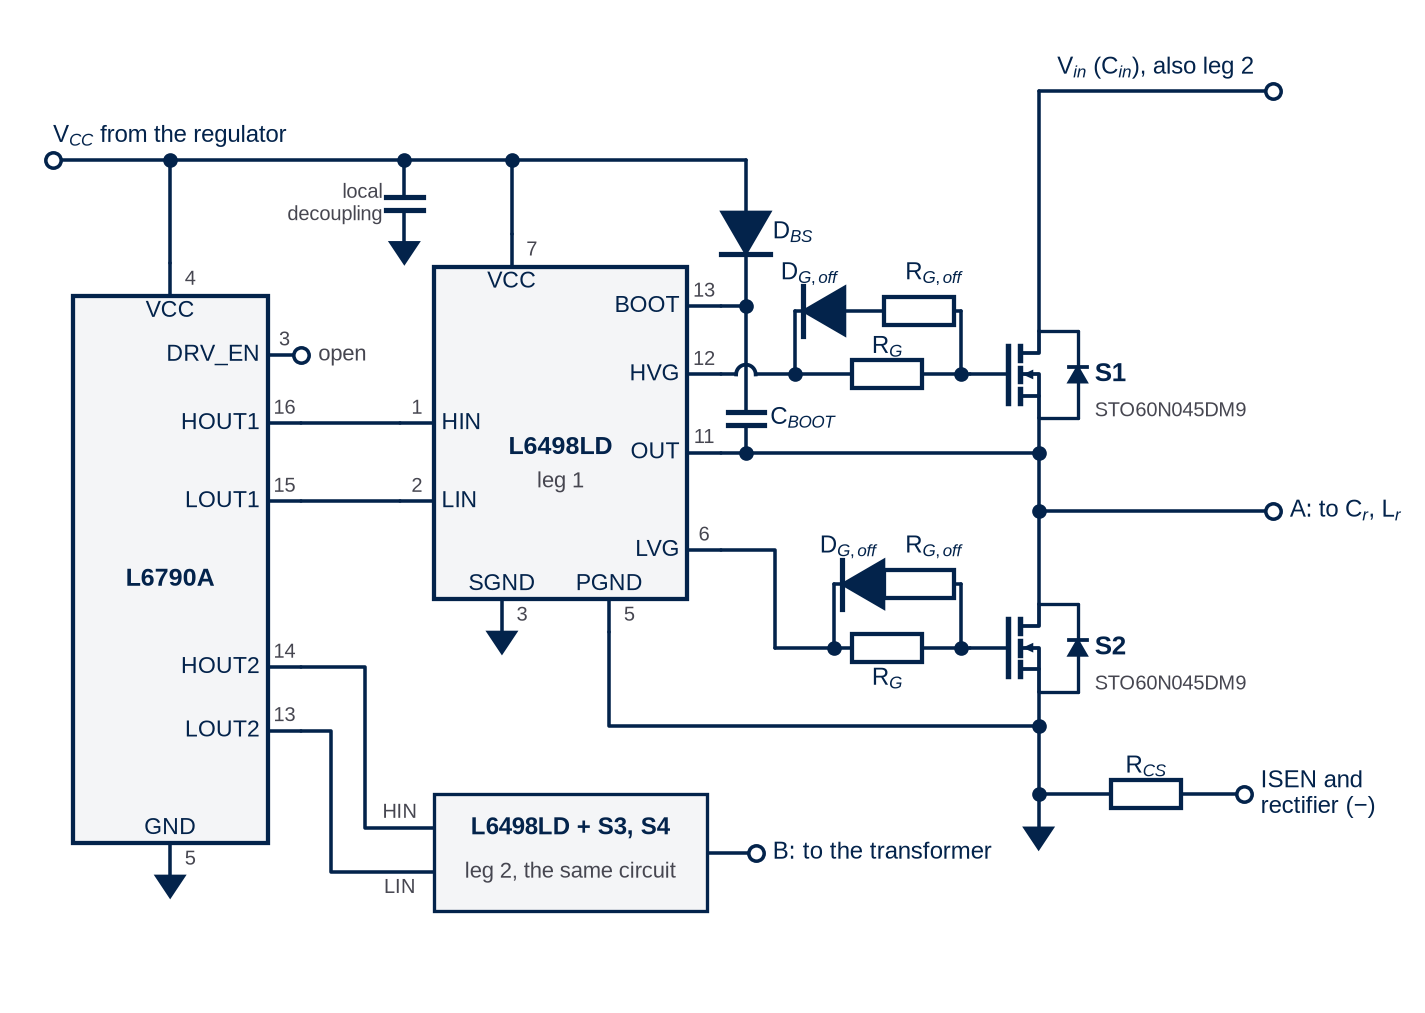
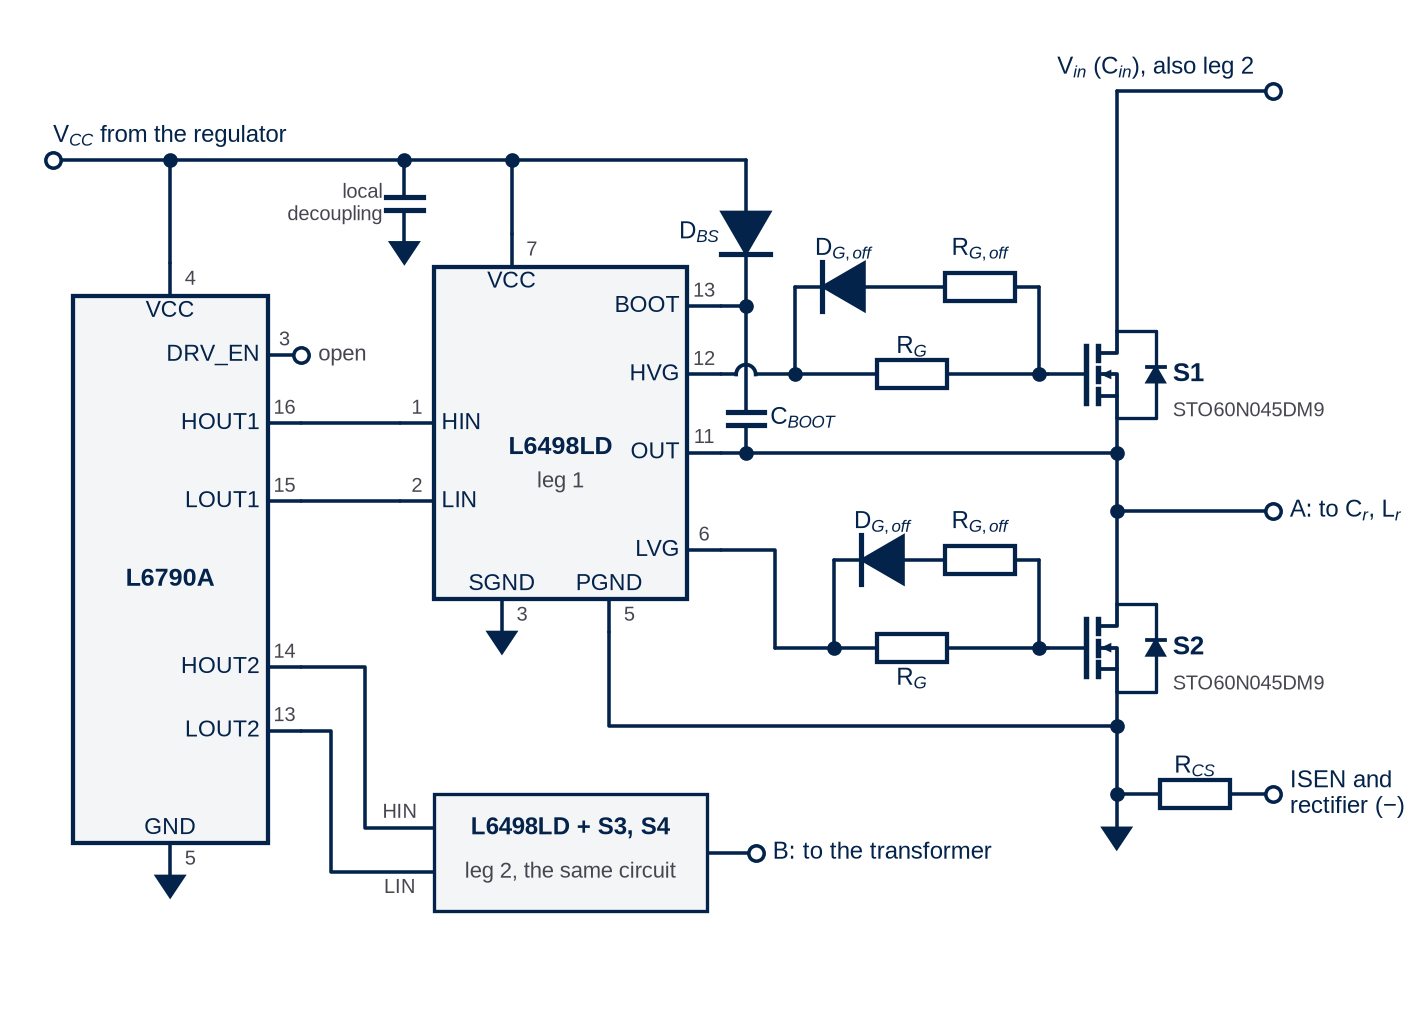
Round 84 (in progress): gate turn-off branches spread out — full schematic: branch 2.0 under each gate run, run 4.3 long, diode and resistor a wire apart, R_G,off value under its resistor, driver pins respaced (HVG 5.8, OUT 7.2, BOOT 8.6), U3 down 0.2, V_CC drop 27.8; gate-drive figure: MOSFET colum
Claude-Session: https://claude.ai/code/session_01L3H8Na8buSZY2uPpuuSkn7

diff --git a/Design Guide/generators/figs_ref.py b/Design Guide/generators/figs_ref.py
@@ -3536,7 +3536,7 @@ def an_gate_drive(save, foot):
     da, db = S.diode(ax, XB, 17.1, horiz=False, flip=True)   # VCC -> BOOT
     S.wire(ax, [(XB, YV), da])                     # anode on the rail
     S.wire(ax, [db, (XB, 15.6)])                   # cathode on BOOT
-    S.label(ax, XB + 0.55, 17.1, 'D$_{BS}$', size=10, ha='left')
+    S.label(ax, XB - 0.55, 17.1, 'D$_{BS}$', size=10, ha='right')
     ca, cb = S.cap(ax, XB, 13.3, horiz=False)
     S.wire(ax, [(XB, 15.6), cb])
     S.wire(ax, [ca, (XB, 12.6)])
@@ -3544,7 +3544,10 @@ def an_gate_drive(save, foot):
     S.label(ax, XB + 0.50, 13.3, 'C$_{BOOT}$', size=10, ha='left')
 
     # ------------------------------------------------- the two switches
-    XS = 20.4                               # drain-source line
+    XS = 22.0                               # drain-source line (1.6 to
+    #                                         the right of the first
+    #                                         drawing: room for the gate
+    #                                         networks, 2026-10-04)
     s1d, s1s = X.mosfet(ax, XS, 14.2, None, 'plain', h=1.8, gate=1.4,
                         body=True, coss=False)
     s2d, s2s = X.mosfet(ax, XS, 8.6, None, 'plain', h=1.8, gate=1.4,
@@ -3559,31 +3562,33 @@ def an_gate_drive(save, foot):
     xh = XS - 1.4
     S.wire(ax, [d['HVG'], (XB - R, 14.2)])
     X.hop(ax, XB, 14.2, r=R)
-    ra, rb = S.res(ax, 17.3, 14.2, 'R$_G$', tdy=0.55)
+    ra, rb = S.res(ax, 17.8, 14.2, 'R$_G$', tdy=0.55)
     S.wire(ax, [(XB + R, 14.2), ra])
     S.wire(ax, [rb, (xh, 14.2)])
     S.wire(ax, [d['LVG'], (15.0, 10.6), (15.0, 8.6)])
-    ra2, rb2 = S.res(ax, 17.3, 8.6, 'R$_G$', tdy=-0.65)
+    ra2, rb2 = S.res(ax, 17.8, 8.6, 'R$_G$', tdy=-0.65)
     S.wire(ax, [(15.0, 8.6), ra2])
     S.wire(ax, [rb2, (xh, 8.6)])
 
     def goff(yy, up, xn1):
         """the turn-off path anti-parallel to R_G: D_Goff pointing at the
-        driver, R_G,off in series - above each run (below the LVG run the
-        PGND return passes)"""
+        driver, R_G,off in series - above each run (below the HVG run the
+        OUT return passes, below the LVG run the PGND return), 1.8 off it
+        and the two parts a wire's length apart (2026-10-04 user: the
+        first drawing had them touching, 1.3 off the run)"""
         xn2 = xh - 0.2
-        yb = yy + up * 1.3
+        yb = yy + up * 1.8
         for xx in (xn1, xn2):
             S.dot(ax, xx, yy)
             S.wire(ax, [(xx, yy), (xx, yb)])
-        xd_, xr_ = xn1 + 0.6, xn2 - 0.85
+        xd_, xr_ = xn1 + 1.0, xn2 - 1.2
         da_, dk_ = S.diode(ax, xd_, yb, flip=True)
         S.wire(ax, [(xn1, yb), dk_])
         r3a, r3b = S.res(ax, xr_, yb)
         S.wire(ax, [da_, r3a])
         S.wire(ax, [r3b, (xn2, yb)])
-        S.label(ax, xd_ - 0.3, yb + up * 0.75, 'D$_{G,off}$', size=10)
-        S.label(ax, xr_ + 0.3, yb + up * 0.75, 'R$_{G,off}$', size=10)
+        S.label(ax, xd_, yb + up * 0.75, 'D$_{G,off}$', size=10)
+        S.label(ax, xr_, yb + up * 0.75, 'R$_{G,off}$', size=10)
     goff(14.2, 1, XB + 1.0)
     goff(8.6, 1, 16.2)
     # S1 drain to the bus; S1 source = A = S2 drain
@@ -3606,11 +3611,11 @@ def an_gate_drive(save, foot):
     S.dot(ax, XS, YG)
     S.wire(ax, [(XS, YG), (XS, 4.9)])
     _pgnd(ax, XS, 4.9)
-    ra3, rb3 = S.res(ax, 22.6, YG, 'R$_{CS}$', tdy=0.55)
+    ra3, rb3 = S.res(ax, 23.6, YG, 'R$_{CS}$', tdy=0.55)
     S.wire(ax, [(XS, YG), ra3])
-    S.wire(ax, [rb3, (24.6, YG)])
-    _term(ax, 24.6, YG)
-    S.label(ax, 24.95, YG, 'ISEN and\nrectifier (−)', size=10, ha='left')
+    S.wire(ax, [rb3, (25.2, YG)])
+    _term(ax, 25.2, YG)
+    S.label(ax, 25.55, YG, 'ISEN and\nrectifier (−)', size=10, ha='left')
 
     # ------------------------------------------------- rails
     S.wire(ax, [(0.2, YV), (XB, YV)])
@@ -4638,7 +4643,7 @@ def an_full(save, foot):
              [('T', XHV, 1, 'HVSU'), ('T', 8.6, 6, 'ISEN'),
               ('T', 10.4, 4, 'VCC'),
               ('R', 24.8, 16, 'HOUT1'), ('R', 23.7, 15, 'LOUT1'),
-              ('R', 12.4, 14, 'HOUT2'), ('R', 11.3, 13, 'LOUT2'),
+              ('R', 12.2, 14, 'HOUT2'), ('R', 11.1, 13, 'LOUT2'),
               ('B', XHV, 12, 'ZCD'), ('B', 8.6, 11, 'CFG'),
               ('B', 11.0, 10, 'BM'),
               ('L', 25.2, 3, 'DRV_EN'), ('L', 21.8, 7, 'RT'),
@@ -4719,8 +4724,8 @@ def an_full(save, foot):
         pg(x_, 3.8)
 
     # ================================================= drivers U2, U3
-    YV, XO, YO = 28.0, 27.0, 15.4
-    W_, H_ = 4.0, 9.6                      # 0.9 x the first drawing's width;
+    YV, XO, YO = 28.0, 27.8, 15.4
+    W_, H_ = 4.0, 9.8                      # 0.9 x the first drawing's width;
     #                                        tall enough for the gate networks
     #                                        (R_G and the turn-off path) to
     #                                        sit apart from each other
@@ -4731,8 +4736,8 @@ def an_full(save, foot):
                 [('L', y0 + 7.6, 1, 'HIN'), ('L', y0 + 6.5, 2, 'LIN'),
                  ('T', x0 + 2.0, 7, 'VCC'),
                  ('B', x0 + 1.1, 3, 'SGND'), ('B', x0 + 2.9, 5, 'PGND'),
-                 ('R', y0 + 8.4, 13, 'BOOT'), ('R', y0 + 7.0, 11, 'OUT'),
-                 ('R', y0 + 4.8, 12, 'HVG'), ('R', y0 + 1.6, 6, 'LVG')],
+                 ('R', y0 + 8.6, 13, 'BOOT'), ('R', y0 + 7.2, 11, 'OUT'),
+                 ('R', y0 + 5.8, 12, 'HVG'), ('R', y0 + 1.6, 6, 'LVG')],
                 size=SN, psize=SN, tpad=0.45, title=False)
         S.label(ax, x0 - 0.35, y0 + 4.3, nm, size=SN, weight='bold',
                 ha='right')
@@ -4753,36 +4758,40 @@ def an_full(save, foot):
         S.dot(ax, xb, oy)
         S.label(ax, xb + 0.45, (by + oy) / 2.0 + 0.05,
                 'C$_{BOOT}$ ' + _c(_sv('C.BOOT')), size=SN, ha='left')
-        xr, xf = xb + 1.35, xb + 2.7
+        xf = xb + 4.3                        # the flags; the gate runs
+        #                                        between the box and here
         S.wire(ax, [(ox, oy), (xf, oy)])
         flag(xf, oy, 'A' if leg == '1' else 'B')
-        #  each gate: R_G on the straight run, and anti-parallel to it the
-        #  turn-off path D_Goff + R_G,off - above for HVG, below for LVG.
-        #  The diode points at the driver: the gate discharges through it.
-        for yy, nmg, up in ((hy, 'HVG', 1), (ly, 'LVG', -1)):
-            xn1, xn2 = hx + 0.35, xf - 0.35
+        #  each gate: R_G on the straight run, its value above; below the
+        #  run, anti-parallel to it, the turn-off path D_Goff + R_G,off with
+        #  the diode pointing at the driver (the gate discharges through
+        #  it) and the parts a wire's length apart (2026-10-04 user: the
+        #  first drawing had them touching, 1.3 under the run)
+        for yy, nmg in ((hy, 'HVG'), (ly, 'LVG')):
+            xn1, xn2 = hx + 0.5, xf - 0.5
+            xr = (xn1 + xn2) / 2.0
             ra_, rb_ = S.res(ax, xr, yy)
             S.wire(ax, [(hx, yy), ra_])
             S.wire(ax, [rb_, (xf, yy)])
             flag(xf, yy, nmg + leg)
             S.dot(ax, xn1, yy)
             S.dot(ax, xn2, yy)
-            S.label(ax, xr, yy - up * 0.65, 'R$_G$ ' + _r(_sv('R.G')), size=SN)
-            yb = yy + up * 1.3
+            S.label(ax, xr, yy + 0.65, 'R$_G$ ' + _r(_sv('R.G')), size=SN)
+            yb = yy - 2.0
             S.wire(ax, [(xn1, yy), (xn1, yb)])
             S.wire(ax, [(xn2, yy), (xn2, yb)])
-            xd_, xr2 = xn1 + 0.6, xn2 - 0.75
+            xd_, xr2 = xn1 + 0.95, xn2 - 1.2
             da_, dk_ = S.diode(ax, xd_, yb, flip=True)
             S.wire(ax, [(xn1, yb), dk_])
             r2a, r2b = S.res(ax, xr2, yb)
             S.wire(ax, [da_, r2a])
             S.wire(ax, [r2b, (xn2, yb)])
-            S.label(ax, xf + 0.35, yb, 'R$_{G,off}$ ' + _r(_sv('R.G_off')),
-                    size=SN, ha='left')
+            S.label(ax, xr2, yb - 0.65, 'R$_{G,off}$ ' + _r(_sv('R.G_off')),
+                    size=SN)
         return u, xb, by
     u2, xb2, by2 = driver(XD, 17.2, 'U2', '1')    # HIN level with HOUT1
-    u3, xb3, by3 = driver(XD, 4.8, 'U3', '2')
-    S.label(ax, XD + 2.0, 3.0, 'D$_{G,off}$ 1N4148W, one per gate', size=SN,
+    u3, xb3, by3 = driver(XD, 4.6, 'U3', '2')
+    S.label(ax, XD + 2.0, 2.3, 'D$_{G,off}$ 1N4148W, one per gate', size=SN,
             color=GREY)
     for a_, b_ in ((U1['HOUT1'], u2['HIN']), (U1['LOUT1'], u2['LIN']),
                    (U1['HOUT2'], u3['HIN']), (U1['LOUT2'], u3['LIN'])):
